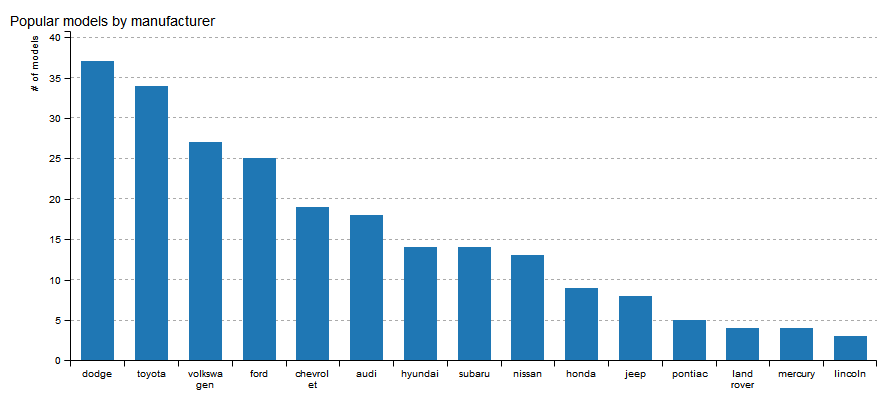
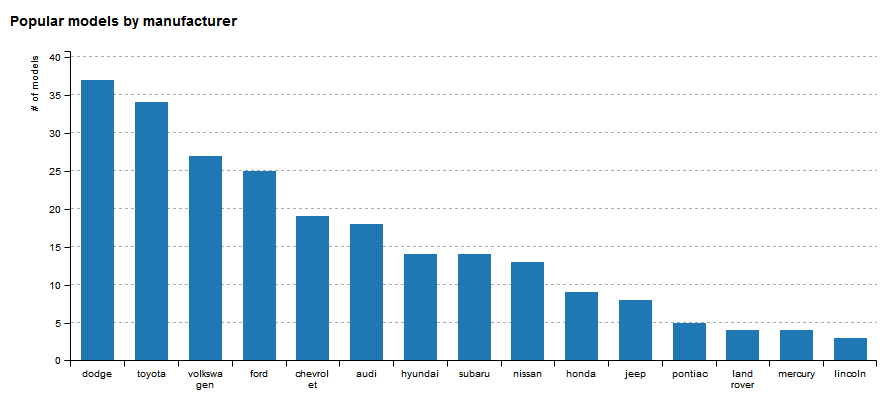
bb_hist doc

diff --git a/inst/htmlwidgets/billboarder.js b/inst/htmlwidgets/billboarder.js
@@ -32,7 +32,12 @@ HTMLWidgets.widget({
         // Generate billboard chart
         chart = bb.generate(bb_opts);
         
-        console.log(chart.data());
+        // bold title
+        var sheet = window.document.styleSheets[0];
+        sheet.insertRule('.bb-title { font-weight: bold; }', sheet.cssRules.length);
+        
+        
+        //console.log(chart.data());
 
       },
       

diff --git a/README.md b/README.md
@@ -45,8 +45,8 @@ billboarder() %>%
   bb_y_grid(show = TRUE) %>%
   bb_legend(show = FALSE) %>% 
   bb_y_axis(label = list(text = "# of models", position = "outer-top")) %>% 
-  bb_title(text = "Popular models by manufacturer", position = "left-top")
-
+  bb_title(text = "Popular models by manufacturer", position = "left-top", 
+           padding = list(top = 0, right = 0, left = 0, bottom = 20))
 ```
 
 ![](inst/img/barchart0.png)
